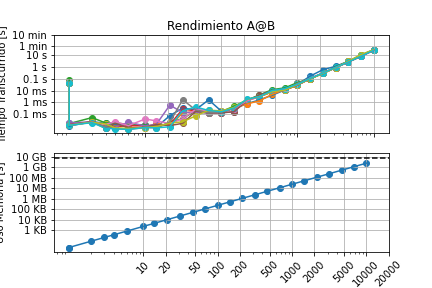
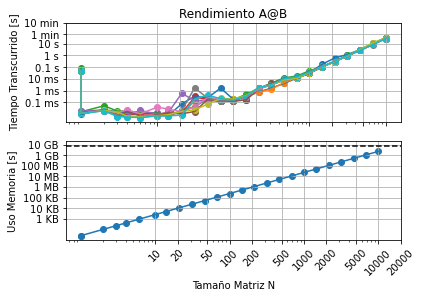
Questions

Changed region(s): [[0.0, 0.0312, 0.9858, 1.0]]

diff --git a/Visualización.py b/Visualización.py
@@ -84,6 +84,6 @@ plt.xlabel("Tamaño Matriz N")
 plt.yticks(mem0, mem_label)
 plt.grid(True)
 plt.xticks(N0, N0, rotation=45)
-plt.savefig('Rendimiento A@B.png')
+plt.savefig("Rendimiento A@B", bbox_inches = 'tight')
 plt.show()
 

diff --git a/README.md b/README.md
@@ -46,7 +46,7 @@ P0E2: Desempeño MATMUL
 
 A continuación, se presenta el rendimiento de mi PC al calcular multiplicaciones de matrices de diferentes tamaños, realizando diez corridas. Se grafica el tiempo transcurrido en segundos que demora en realizar cada operación versus el tamaño de la matriz en el primer subplot. En el segundo, se grafica el uso de memoria versus el tamaño de la matriz, además de la memoria RAM del PC. 
 
-![Desempeño MATMUL](/docs/source/images/logo.png)
+![Desempeño MATMUL](https://github.com/GeoChammas/MCOC2021-P0/blob/main/Rendimiento%20A%40B.png)
 
 
 1. ¿Cómo difiere del gráfico del profesor/ayudante?  
